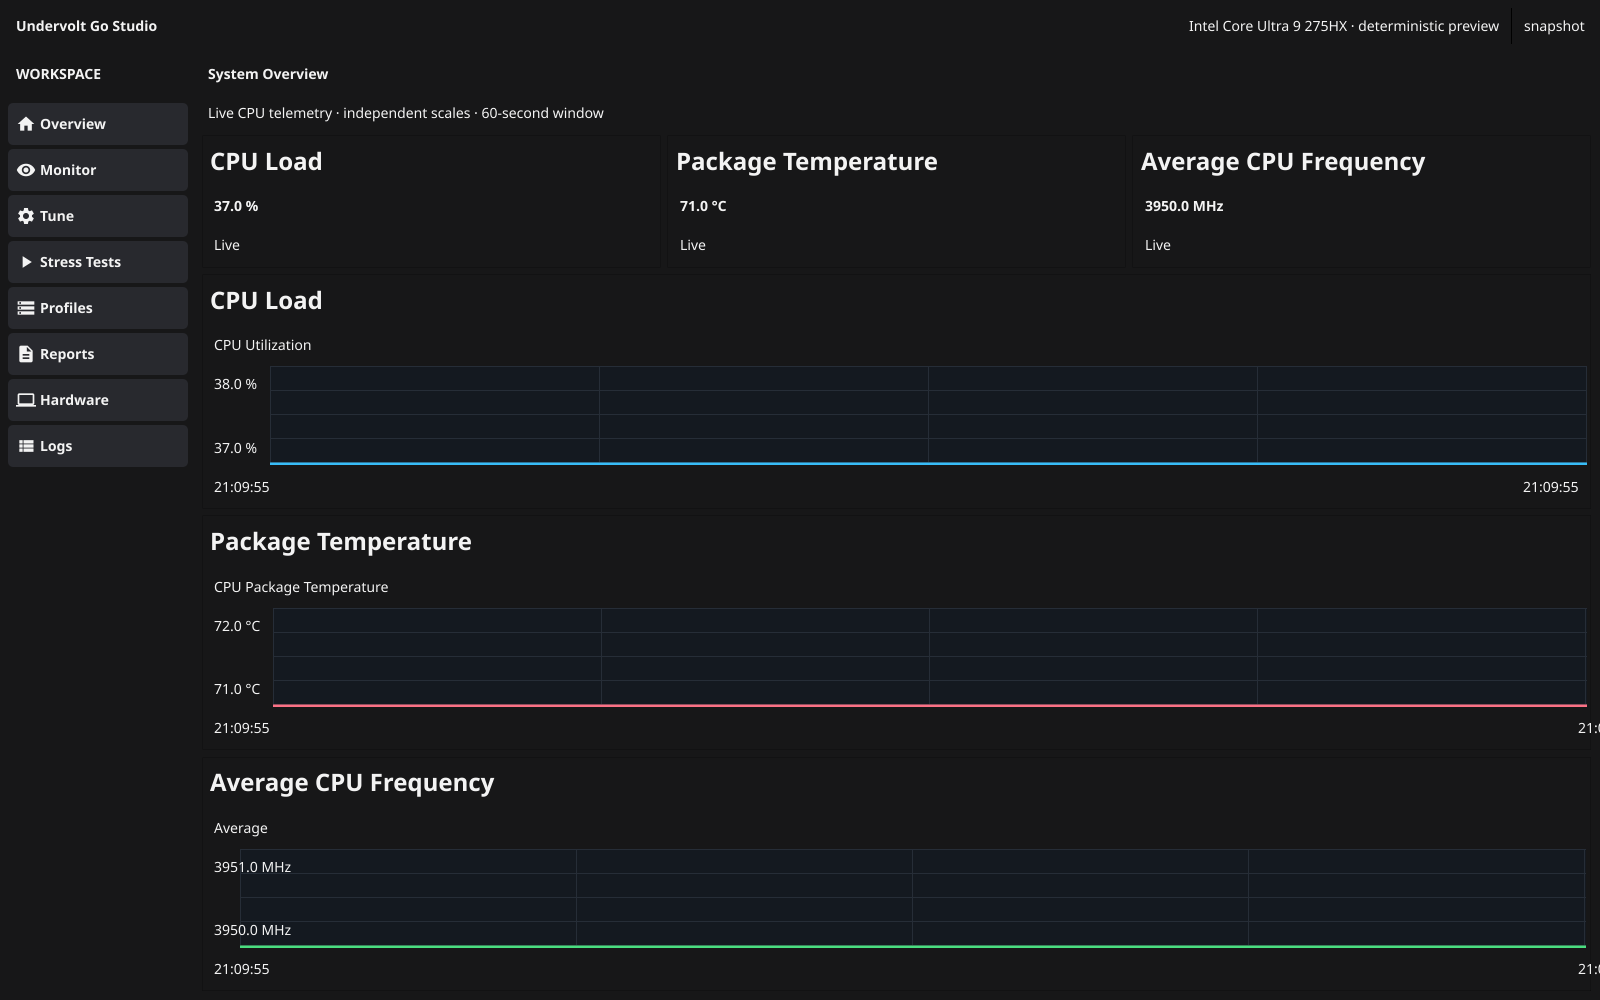
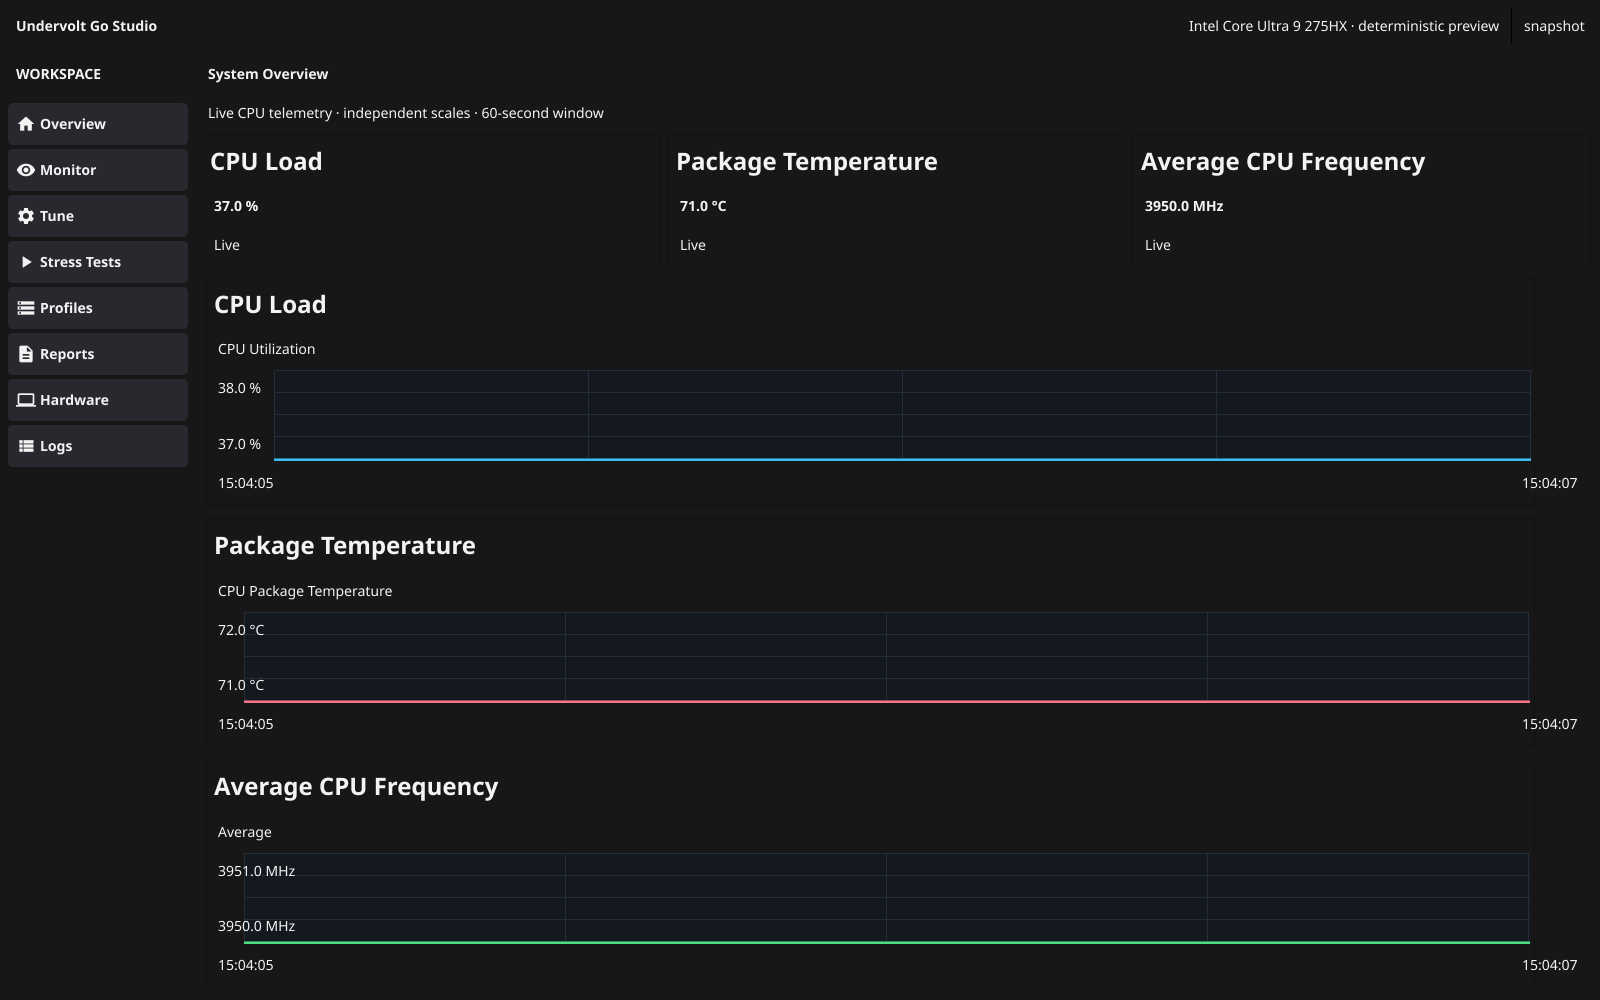
fix: stabilize Studio documentation snapshots

diff --git a/cmd/ui-snapshot/main.go b/cmd/ui-snapshot/main.go
@@ -110,6 +110,13 @@ func snapshotPage(page, scenario string) (*snapshotPageResult, error) {
 
 func intel275HXTelemetrySnapshotPage(page string) (*snapshotPageResult, error) {
 	provider := newIntel275HXTelemetrySnapshotProvider()
+	rendered := make(chan struct{})
+	var renderedOnce sync.Once
+	afterRender := func(state viewmodel.MonitorState) {
+		if stateHasSnapshotTimeline(state) {
+			renderedOnce.Do(func() { close(rendered) })
+		}
+	}
 	scheduler := telemetry.NewScheduler([]telemetry.Provider{provider}, telemetry.SchedulerOptions{})
 	ctx, cancel := context.WithCancel(context.Background())
 	catalog, err := scheduler.Discover(ctx)
@@ -117,7 +124,7 @@ func intel275HXTelemetrySnapshotPage(page string) (*snapshotPageResult, error) {
 		cancel()
 		return nil, fmt.Errorf("discover Intel 275HX snapshot telemetry: %w", err)
 	}
-	shell := ui.NewShellWithHardwareSummary(product.Current("snapshot"), scheduler, intel275HXHardwareSummary())
+	shell := ui.NewSnapshotShell(product.Current("snapshot"), scheduler, intel275HXHardwareSummary(), afterRender)
 	shell.SetCatalog(catalog)
 	shell.SetStatus("Intel Core Ultra 9 275HX · deterministic preview")
 	if err := shell.Select(page); err != nil {
@@ -138,14 +145,29 @@ func intel275HXTelemetrySnapshotPage(page string) (*snapshotPageResult, error) {
 					return fmt.Errorf("wait for Intel 275HX hardware summary: %w", err)
 				}
 			} else {
-				if err := provider.wait(waitCtx); err != nil {
-					return err
+				select {
+				case <-rendered:
+				case <-waitCtx.Done():
+					return fmt.Errorf("wait for rendered Intel 275HX telemetry: %w", waitCtx.Err())
 				}
 			}
 			fyne.DoAndWait(func() {})
 			return nil
 		},
 	}, nil
+}
+
+func stateHasSnapshotTimeline(state viewmodel.MonitorState) bool {
+	if len(intel275HXSnapshotTimeline) == 0 {
+		return false
+	}
+	final := intel275HXSnapshotTimeline[len(intel275HXSnapshotTimeline)-1]
+	for _, sample := range state.Current {
+		if sample.Timestamp.Equal(final) {
+			return true
+		}
+	}
+	return false
 }
 
 func intel275HXHardwareSummary() pages.HardwareSummary {
@@ -166,6 +188,12 @@ type intel275HXTelemetrySnapshotProvider struct {
 	sampled chan struct{}
 	once    sync.Once
 	samples atomic.Int32
+}
+
+var intel275HXSnapshotTimeline = []time.Time{
+	time.Date(2099, time.January, 2, 15, 4, 5, 0, time.UTC),
+	time.Date(2099, time.January, 2, 15, 4, 6, 0, time.UTC),
+	time.Date(2099, time.January, 2, 15, 4, 7, 0, time.UTC),
 }
 
 func newIntel275HXTelemetrySnapshotProvider() *intel275HXTelemetrySnapshotProvider {
@@ -192,7 +220,11 @@ func (p *intel275HXTelemetrySnapshotProvider) Discover(context.Context) (telemet
 }
 
 func (p *intel275HXTelemetrySnapshotProvider) Sample(_ context.Context, metricIDs []telemetry.MetricID) (telemetry.Frame, error) {
-	now := time.Now()
+	index := int(p.samples.Add(1) - 1)
+	if index >= len(intel275HXSnapshotTimeline) {
+		index = len(intel275HXSnapshotTimeline) - 1
+	}
+	now := intel275HXSnapshotTimeline[index]
 	values := map[telemetry.MetricID]float64{
 		"cpu.utilization":         37.0,
 		"cpu.package.temperature": 71.0,
@@ -203,7 +235,7 @@ func (p *intel275HXTelemetrySnapshotProvider) Sample(_ context.Context, metricID
 	for _, metricID := range metricIDs {
 		samples = append(samples, telemetry.Sample{MetricID: metricID, Value: values[metricID], Timestamp: now, Quality: telemetry.QualityGood})
 	}
-	if p.samples.Add(1) >= 3 {
+	if index >= 2 {
 		p.once.Do(func() { close(p.sampled) })
 	}
 	return telemetry.Frame{ProviderID: p.ID(), StartedAt: now, FinishedAt: now, Samples: samples}, nil

diff --git a/internal/ui/pages/overview.go b/internal/ui/pages/overview.go
@@ -5,6 +5,7 @@ import (
 	"time"
 
 	"fyne.io/fyne/v2"
+	"fyne.io/fyne/v2/canvas"
 	"fyne.io/fyne/v2/container"
 	"fyne.io/fyne/v2/widget"
 
@@ -37,10 +38,20 @@ type Overview struct {
 	chartHost        *fyne.Container
 	updates          *components.LatestDispatcher[viewmodel.MonitorState]
 	frequencyHistory []telemetry.Sample
+	afterRender      func(viewmodel.MonitorState)
 	root             fyne.CanvasObject
 }
 
 func NewOverview(source viewmodel.SubscriptionSource, catalog telemetry.Catalog) *Overview {
+	return newOverview(source, catalog, nil)
+}
+
+// NewOverviewWithRenderCallback reports each completed UI render to deterministic snapshot callers.
+func NewOverviewWithRenderCallback(source viewmodel.SubscriptionSource, catalog telemetry.Catalog, afterRender func(viewmodel.MonitorState)) *Overview {
+	return newOverview(source, catalog, afterRender)
+}
+
+func newOverview(source viewmodel.SubscriptionSource, catalog telemetry.Catalog, afterRender func(viewmodel.MonitorState)) *Overview {
 	page := &Overview{
 		vm:          viewmodel.NewOverview(source, catalog, 250*time.Millisecond),
 		descriptors: make(map[telemetry.MetricID]telemetry.Descriptor),
@@ -48,6 +59,7 @@ func NewOverview(source viewmodel.SubscriptionSource, catalog telemetry.Catalog)
 		cardGrid:    container.NewGridWithColumns(3),
 		charts:      make(map[string]*components.Timeline),
 		chartHost:   container.NewStack(),
+		afterRender: afterRender,
 	}
 	page.root = container.NewPadded(container.NewBorder(
 		container.NewVBox(
@@ -136,6 +148,9 @@ func (p *Overview) render(state viewmodel.MonitorState) {
 			Points: recentSamples(p.frequencyHistory, cutoff),
 		}})
 	}
+	if p.afterRender != nil {
+		p.afterRender(state)
+	}
 }
 
 func (p *Overview) appendAverageFrequency(state viewmodel.MonitorState) {
@@ -193,12 +208,14 @@ func overviewChartLayout(charts []fyne.CanvasObject) fyne.CanvasObject {
 	case 2:
 		return container.NewGridWithColumns(2, overviewChartCell(charts[0]), overviewChartCell(charts[1]))
 	default:
-		return container.NewGridWithRows(3, charts...)
+		return container.NewGridWithRows(3, overviewChartCell(charts[0]), overviewChartCell(charts[1]), overviewChartCell(charts[2]))
 	}
 }
 
 func overviewChartCell(chart fyne.CanvasObject) fyne.CanvasObject {
-	return container.NewPadded(chart)
+	rightInset := canvas.NewRectangle(color.Transparent)
+	rightInset.SetMinSize(fyne.NewSize(48, 1))
+	return container.NewPadded(container.NewBorder(nil, nil, nil, rightInset, chart))
 }
 
 func averageSample(samples map[telemetry.MetricID]telemetry.Sample, metricIDs []telemetry.MetricID) (telemetry.Sample, bool) {

diff --git a/internal/ui/pages/monitor.go b/internal/ui/pages/monitor.go
@@ -24,26 +24,37 @@ type Monitor struct {
 	intervals   []time.Duration
 	active      bool
 
-	search     *widget.Entry
-	interval   *widget.Select
-	pause      *widget.Button
-	metricList *fyne.Container
-	values     *fyne.Container
-	chartHost  *fyne.Container
-	timelines  map[telemetry.Unit]*components.Timeline
-	chartKey   string
-	updates    *components.LatestDispatcher[viewmodel.MonitorState]
-	root       fyne.CanvasObject
+	search      *widget.Entry
+	interval    *widget.Select
+	pause       *widget.Button
+	metricList  *fyne.Container
+	values      *fyne.Container
+	chartHost   *fyne.Container
+	timelines   map[telemetry.Unit]*components.Timeline
+	chartKey    string
+	updates     *components.LatestDispatcher[viewmodel.MonitorState]
+	afterRender func(viewmodel.MonitorState)
+	root        fyne.CanvasObject
 }
 
 func NewMonitor(source viewmodel.SubscriptionSource, catalog telemetry.Catalog) *Monitor {
+	return newMonitor(source, catalog, nil)
+}
+
+// NewMonitorWithRenderCallback reports each completed UI render to deterministic snapshot callers.
+func NewMonitorWithRenderCallback(source viewmodel.SubscriptionSource, catalog telemetry.Catalog, afterRender func(viewmodel.MonitorState)) *Monitor {
+	return newMonitor(source, catalog, afterRender)
+}
+
+func newMonitor(source viewmodel.SubscriptionSource, catalog telemetry.Catalog, afterRender func(viewmodel.MonitorState)) *Monitor {
 	page := &Monitor{
 		vm:          viewmodel.NewMonitor(source, 250*time.Millisecond),
 		descriptors: make(map[telemetry.MetricID]telemetry.Descriptor),
 		selected:    make(map[telemetry.MetricID]bool),
 		intervals:   []time.Duration{100 * time.Millisecond, 250 * time.Millisecond, 500 * time.Millisecond, time.Second, 2 * time.Second, 5 * time.Second},
 		metricList:  container.NewVBox(), values: container.NewVBox(), chartHost: container.NewVBox(),
-		timelines: make(map[telemetry.Unit]*components.Timeline),
+		timelines:   make(map[telemetry.Unit]*components.Timeline),
+		afterRender: afterRender,
 	}
 	page.search = widget.NewEntry()
 	page.search.SetPlaceHolder("Search metrics")
@@ -204,6 +215,9 @@ func (p *Monitor) render(state viewmodel.MonitorState) {
 	}
 	for _, group := range groups {
 		p.timelines[group.Unit].SetSeries(group.Series)
+	}
+	if p.afterRender != nil {
+		p.afterRender(state)
 	}
 }
 

diff --git a/cmd/ui-snapshot/main_test.go b/cmd/ui-snapshot/main_test.go
@@ -14,6 +14,7 @@ import (
 
 	"github.com/noteMASTER11/undervolt-go-studio/internal/telemetry"
 	"github.com/noteMASTER11/undervolt-go-studio/internal/tuning"
+	"github.com/noteMASTER11/undervolt-go-studio/internal/ui/viewmodel"
 )
 
 func TestIntel275HXSnapshotServiceReportsRequiredCapabilitiesHonestly(t *testing.T) {
@@ -96,6 +97,38 @@ func TestIntel275HXTelemetrySnapshotWaitsForChartHistory(t *testing.T) {
 	}
 	if err := provider.wait(context.Background()); err != nil {
 		t.Fatalf("snapshot did not become ready with chart history: %v", err)
+	}
+}
+
+func TestIntel275HXTelemetrySnapshotUsesFixedTimeline(t *testing.T) {
+	provider := newIntel275HXTelemetrySnapshotProvider()
+	metricIDs := []telemetry.MetricID{"cpu.utilization"}
+	first, err := provider.Sample(context.Background(), metricIDs)
+	if err != nil {
+		t.Fatal(err)
+	}
+	second, err := provider.Sample(context.Background(), metricIDs)
+	if err != nil {
+		t.Fatal(err)
+	}
+	if got, want := first.Samples[0].Timestamp, intel275HXSnapshotTimeline[0]; !got.Equal(want) {
+		t.Fatalf("first sample timestamp = %v, want %v", got, want)
+	}
+	if got, want := second.Samples[0].Timestamp, intel275HXSnapshotTimeline[1]; !got.Equal(want) {
+		t.Fatalf("second sample timestamp = %v, want %v", got, want)
+	}
+}
+
+func TestIntel275HXSnapshotReadinessRequiresFinalRenderedFrame(t *testing.T) {
+	state := viewmodel.MonitorState{Current: map[telemetry.MetricID]telemetry.Sample{
+		"cpu.utilization": {Timestamp: intel275HXSnapshotTimeline[1]},
+	}}
+	if stateHasSnapshotTimeline(state) {
+		t.Fatal("penultimate telemetry frame marked snapshot ready")
+	}
+	state.Current["cpu.utilization"] = telemetry.Sample{Timestamp: intel275HXSnapshotTimeline[2]}
+	if !stateHasSnapshotTimeline(state) {
+		t.Fatal("final rendered telemetry frame did not mark snapshot ready")
 	}
 }
 

diff --git a/internal/ui/shell.go b/internal/ui/shell.go
@@ -54,6 +54,27 @@ func NewShellWithHardwareSummary(info product.Info, scheduler *telemetry.Schedul
 	return shell
 }
 
+// NewSnapshotShell configures telemetry pages to report after their UI callback
+// has rendered the latest state. It is only used by deterministic headless views.
+func NewSnapshotShell(info product.Info, scheduler *telemetry.Scheduler, summary pages.HardwareSummary, afterRender func(viewmodel.MonitorState)) *Shell {
+	shell := NewShellWithHardwareSummary(info, scheduler, summary)
+	shell.navigator.Deactivate()
+	delete(shell.navigator.pages, "overview")
+	source := viewmodel.SchedulerSource{Scheduler: scheduler}
+	for index, factory := range shell.navigator.factories {
+		switch factory.ID {
+		case "overview":
+			shell.navigator.factories[index].Create = func() Page { return pages.NewOverviewWithRenderCallback(source, shell.catalog, afterRender) }
+		case "monitor":
+			shell.navigator.factories[index].Create = func() Page { return pages.NewMonitorWithRenderCallback(source, shell.catalog, afterRender) }
+		default:
+			continue
+		}
+		shell.navigator.byID[factory.ID] = shell.navigator.factories[index]
+	}
+	return shell
+}
+
 func newShell(info product.Info, scheduler *telemetry.Scheduler, eventStore *events.Store, tuneService viewmodel.TuneService, dispatch func(func())) *Shell {
 	shell := &Shell{info: info, scheduler: scheduler, center: container.NewStack(), events: eventStore}
 	source := viewmodel.SchedulerSource{Scheduler: scheduler}

diff --git a/internal/product/readme_test.go b/internal/product/readme_test.go
@@ -2,6 +2,8 @@ package product
 
 import (
 	"os"
+	"path/filepath"
+	"regexp"
 	"strings"
 	"testing"
 )
@@ -14,6 +16,7 @@ func TestReadmeDescribesCurrentStudioOnly(t *testing.T) {
 		t.Fatal(err)
 	}
 	text := string(data)
+	const provenance = "Forked from [Softorage/undervolt-go](https://github.com/Softorage/undervolt-go). Original history and authorship are retained."
 	for _, required := range []string{
 		"# Undervolt Go Studio",
 		"Forked from [Softorage/undervolt-go](https://github.com/Softorage/undervolt-go)",
@@ -31,6 +34,18 @@ func TestReadmeDescribesCurrentStudioOnly(t *testing.T) {
 	for _, obsolete := range []string{"softorage.github.io/undervolt-go", "UndervoltGo.png", "Persist allows"} {
 		if strings.Contains(text, obsolete) {
 			t.Errorf("README retains obsolete content %q", obsolete)
+		}
+	}
+	if got := strings.Count(text, provenance); got != 1 {
+		t.Errorf("README provenance paragraph count = %d, want 1", got)
+	}
+	for _, match := range regexp.MustCompile(`!?\[[^]]*\]\(([^)]+)\)`).FindAllStringSubmatch(text, -1) {
+		target := match[1]
+		if strings.Contains(target, "://") || strings.HasPrefix(target, "#") {
+			continue
+		}
+		if _, err := os.Stat(filepath.Join("../..", target)); err != nil {
+			t.Errorf("README relative link %q does not resolve: %v", target, err)
 		}
 	}
 }

diff --git a/internal/ui/pages/overview_test.go b/internal/ui/pages/overview_test.go
@@ -32,8 +32,16 @@ func TestOverviewChartLayoutStacksThreeChartsToKeepAxesReadable(t *testing.T) {
 		t.Fatalf("three-chart layout has %d direct rows, want 3", got)
 	}
 	for index, chart := range charts {
-		if grid.Objects[index] != chart {
-			t.Fatalf("chart %d is not in its own row", index)
+		if grid.Objects[index] == chart {
+			t.Fatalf("chart %d has no inset in its own row", index)
 		}
+	}
+}
+
+func TestOverviewChartLayoutPadsLastRowForTimelineEndLabel(t *testing.T) {
+	charts := []fyne.CanvasObject{widget.NewLabel("CPU Load"), widget.NewLabel("Package Temperature"), widget.NewLabel("Average CPU Frequency")}
+	layout := overviewChartLayout(charts).(*fyne.Container)
+	if layout.Objects[2] == charts[2] {
+		t.Fatal("last chart has no right-hand safety inset for its end timestamp")
 	}
 }
